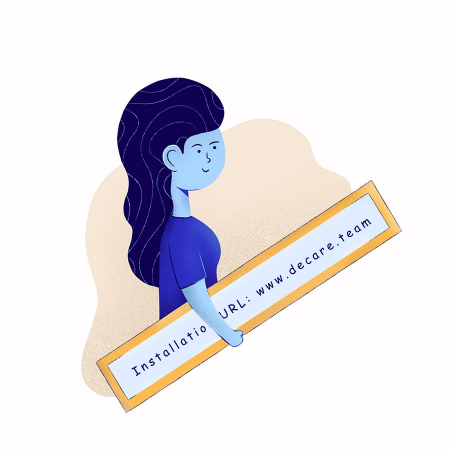
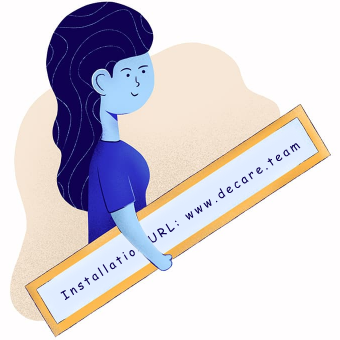
refact: clean code

diff --git a/app/screens/configURL/configureURL-screen.tsx b/app/screens/configURL/configureURL-screen.tsx
@@ -13,11 +13,11 @@ import { color } from "../../theme"
 import { RootNavigatorParamList } from "../../navigators"
 
 import { useStores } from "../../models"
-import { showMessage, hideMessage } from "react-native-flash-message"
+import { showMessage } from "react-native-flash-message"
 import * as configureURLScreenStyles from "./configureURL-screen.style";
 
 const { API_URL } = require("../../config/env")
-const installationURLImage = require("./installationurl2.png")
+const installationURLImage = require("./installationurl.png")
 
 /**
  * The regular expression regex matches the following pattern:
